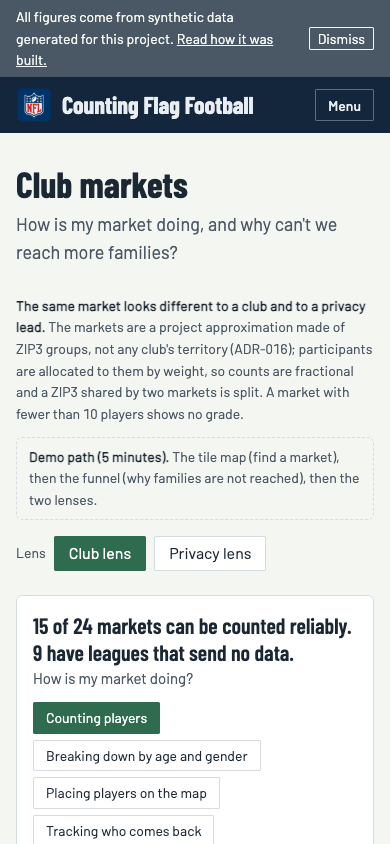
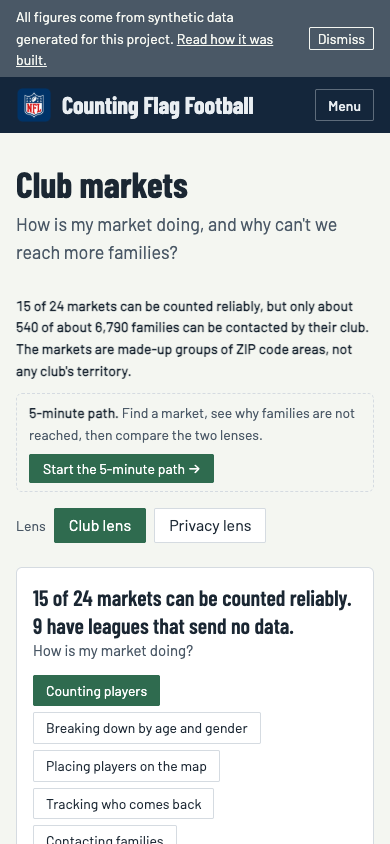
Phase 5.1 step 11: after-screenshots, before/after report, ADR-020 finalized, README line

Changed region(s): [[0.0308, 0.3389, 0.9538, 1.0], [0.0308, 0.6777, 0.0615, 0.7085]]

diff --git a/docs/decisions/ADR-020-site-viewer-and-copy.md b/docs/decisions/ADR-020-site-viewer-and-copy.md
@@ -1,6 +1,6 @@
 # ADR-020: Site viewer, plain-language copy and chart fixes (Phase 5.1)
 
-- **Status:** in progress (written during the build; finalized at the last step).
+- **Status:** accepted for the build (2026-10-15). Two points are Anna's to decide and are marked OPEN: the control-limit method and the club market names. The copy in `site_src/copy/charts.yml` is a draft awaiting her review.
 - **Numbering (a deviation from the handover).** The handover calls this ADR-017; ADR-017 is "Retention versus deletion", so this is **ADR-020**.
 - **Synthetic data.** Every number on the site describes a generated population.
 
@@ -12,3 +12,36 @@ Anna reviewed the built Data quality and Club markets pages (printed to PDF, 202
 - **Baseline (before).** Measured with Playwright driving the installed Chrome (`scripts/site_shots.py`; screenshots and `pages.csv` in `docs/reports/site_baseline/`): the Data quality page is 271,211 px tall because the Pareto chart is 268,183 px tall, and prints to **161 A4 pages** (Anna's PDF counted 198 on her paper size). The Club markets page overflows horizontally by 2,363 px at 1440 px. Every other page prints in 1 to 4 pages.
 - **Playwright.** The handover assumes a pre-installed Chromium. This machine has none, so Playwright is added as a dev dependency and drives the installed Google Chrome (`channel="chrome"`); nothing is downloaded. GitHub's ubuntu runners ship Chrome, so the same call works in CI.
 - **Duplicated sources? No gap; labelling only.** The heatmap lists 11 sources: the five original (`US_LEAGUE`, `CA_CLUB`, `INTL_FED`, `SCHOOL_AGGREGATES`, `FAN_ENGAGEMENT`) and the six channel feeds. The feeds are separate source systems (own raw table, own contract), not sub-channels of the US league, and `school_program` (a roster export, one row per student) is not `SCHOOL_AGGREGATES` (program headcounts, no people). ADR-013 decided this on purpose: the feeds are scored but **not counted** because they describe the same children as `US_LEAGUE`. So there is no reconciliation gap and no model change; the site only needs to label and group them (original sources / new intake channels) so the relationship is visible. `FAN_ENGAGEMENT` is not a registration source and is grouped apart.
+
+## Decision
+
+### 1. Cards and a full-screen viewer
+- Each chart is a **card**: a plain-language headline with a real number, the question, a fixed-height thumbnail (250 px; a check fails above 320 px), *What this means*, *What to do* (both in a Club and a Privacy version), *Be careful*, and a collapsed *For analysts*.
+- A card's slides open in one **`<dialog>` viewer** that holds every slide on the page, in page order (`scroll-snap`, arrow keys, PageUp/PageDown, Home/End, a rail of slide titles, Esc, focus returned to the Expand button). `quality.html#view=Q3-2` opens a slide directly. Slides render lazily when within one slide of the viewport; the chart is re-rendered from its own full-size spec, never scaled up from the thumbnail. A chart always sits in a box of fixed size (`autosize: fit`, `width` and `height` `container`), so it can never grow the page (the root cause of the 268,183 px Pareto).
+- Slide kinds: a Vega-Lite spec, an HTML panel (tile map, fix letters, lens pairs), or a grid of small Vega charts (the grid wraps: 3 columns, 1 on a phone). The component (`site_src/assets/viewer.js`, `viewer.css`) contains no data logic.
+- Pages shrank: Data quality 271,211 px to 2,638 px and 161 print pages to 3; Club markets no longer overflows sideways (details in `docs/reports/site_before_after.md`).
+
+### 2. Copy rules
+- Copy lives in `site_src/copy/charts.yml` (not `site/copy/`: the build recreates `site/`), one entry per card with `status: draft` until Anna approves it; the build warns while any entry is draft. Placeholders (`{field}`, or `{Q1.field}` on a page intro) are filled **by string substitution only** from SQL insight exports (`share_club__chart_insights`, `share_privacy__chart_insights`, and `eval_chart_insights` for the cards graded against the answer key, which therefore lives in `evaluation`). A missing value fails the build unless the entry declares a fallback headline with no numbers. People and families are whole numbers; estimates are rounded in SQL to the nearest 10 and prefixed "about"; a count under the small-cell limit reads "fewer than 10".
+- Every card is checked for: a non-empty slot each, a headline of at most 15 words, sentences of at most 25 words, Flesch-Kincaid grade at most 9, none of the banned words or codes outside `<details>`, no long decimals, no unfilled placeholder, and every number in a headline present in an insight export (`scripts/site_check.py`).
+- Plain labels come from seeds (rule label and action, purposes, dimensions, grades, sources, channels, club markets, funnel steps) with tests that every code has one. A glossary page lists every term with the analysts' name.
+
+### 3. A league belongs to one market
+Participants are allocated to club markets by ZIP3 weight (ADR-016), but a league cannot be split: it now belongs to the one market with the highest weight for its ZIP3 (ties: the lowest market id). League counts per market are whole numbers (the old chart showed 4.5 leagues). Participant allocation and the coverage estimate are unchanged. Only `orgs_known`, `orgs_reporting` and `orgs_dark` in `mart_market_coverage` changed.
+
+### 4. Control-limit width (Q2): OPEN, Anna decides
+Investigation in `docs/reports/site_after/control_chart_note.md`: the binomial P-chart flags 20% of source points (30% for the largest sources) because limits a few points wide ignore real year-to-year movement. Recommended: an individuals (XmR) chart on the score for sources, labelled "early read", and no limits for organizations. **Nothing was changed**: the chart uses the current limits, draws a band only from the fourth season, and says so in its analyst notes. The choice changes `dq_trend` and the Q2 headline numbers.
+
+### 5. Other deviations from the handover
+- The tile map groups tiles by state (west to east) instead of drawing a map: 72 px tiles with four lines of text do not fit a geographic grid in the viewer.
+- The tile-map card defaults to Counting players, as specified; the Pareto card (Q3) defaults to Contacting families because the top Counting-players problem affects fewer than 10 players, so every bar would be hidden.
+- Q4 cannot say "N times as likely": no league on the recommended software is graded C or D. The headline gives the shares.
+- The "records deleted at age-out" line is not on the privacy panel: the count lives in a restricted store with no approved share. A `share_privacy` model for it would be the follow-up.
+- `growth_from_new_reporting_share` (a growth headline) was not built; the growth card uses a neutral headline.
+- The tour page (`tour.html`) was cut, as the handover allows: deep links and each page's "5-minute path" button cover it.
+- Footer: "Scorecard methodology 2.0 · methodology memo 1.2". They are two different versions (the memo is 1.2, scorecard KPIs 2.0, per the CHANGELOG), now each read from its own source.
+
+## Consequences
+- The site-check suite (`make site-check`, `site-check-ci` in `all-phases`) runs in about 80 seconds for four pages and 50 seconds for two.
+- The copy file is the one place Anna edits; everything numeric stays in SQL.
+- Club market names remain "{State} market {n}". OPEN: approximate metro names if Anna prefers; never team names, logos or colours.

diff --git a/README.md b/README.md
@@ -75,18 +75,19 @@ Governance sets the size of the marketable audience: nothing linked reaches mark
 | [017 Retention versus deletion](docs/decisions/ADR-017-retention-vs-deletion.md) | Age-out deletion in the identity and linkage zones; what analytics survive |
 | [018 Minimization and the data standard](docs/decisions/ADR-018-minimization-and-data-standard.md) | The measured frontier of five variants; the data standard cites V2 (birth year, ZIP3), chosen by Anna |
 | [019 Consent provenance and the activation funnel](docs/decisions/ADR-019-consent-provenance-and-activation-funnel.md) | Household-keyed consent events, provenance grades, losses split into data quality and privacy |
+| [020 Site viewer and plain-language copy](docs/decisions/ADR-020-site-viewer-and-copy.md) | Cards and a full-screen viewer, copy rules and checks, a league belongs to one market, the open control-limit and market-name choices |
 
 ## Phase 5: data quality under privacy constraints
 
 **How do you fix thin, messy youth participation data when privacy rules block the obvious fixes (collect more, buy enrichment, share more)?** The real pain point is that participation data is sparse and poor quality; consent is
-not the bottleneck. Phase 5 tells one story through two lenses, built around **one club market end to end** (`make p5-demo`; the 15-minute two-audience path is in [`docs/demo_script.md`](docs/demo_script.md); the site has four new pages, each with a Club lens / Privacy lens toggle):
+not the bottleneck. Phase 5 tells one story through two lenses, built around **one club market end to end** (`make p5-demo`; the 15-minute two-audience path is in [`docs/demo_script.md`](docs/demo_script.md); the site has four new pages, each with a Club lens / Privacy lens toggle; every chart is a small card that opens in a full-screen viewer you can scroll or arrow through, and `page.html#view=Q3-2` links to a slide. Terms are explained in the [glossary](site/glossary.html); `make site-check` runs the layout and plain-language checks, [ADR-020](docs/decisions/ADR-020-site-viewer-and-copy.md)):
 
 | Lens | Question | Where the answer is |
 |---|---|---|
 | **Privacy / compliance lead** | What do we collect and why; what is a consent worth; what never leaves the league; when is it deleted? | [data standard](docs/data-standard.md), [consent provenance and the activation funnel](docs/decisions/ADR-019-consent-provenance-and-activation-funnel.md), [minimization frontier](docs/decisions/ADR-018-minimization-and-data-standard.md), [retention versus deletion](docs/decisions/ADR-017-retention-vs-deletion.md) |
 | **Clubs / analytics lead** | What can I see and act on in my market, and how far can I trust it? | [data quality explained](docs/data-quality.md), the purpose scorecards and fix lists (`make dq`), the club-market view ([ADR-016](docs/decisions/ADR-016-club-market-mapping.md)), `share_club` |
 
-All data is **synthetic**, and every claim about NFL, RCX, vendor or club systems is an **assumption**, labelled where it is made ([real-world context](docs/context/real-world-context.md)); legal points are open questions ([`docs/questions-for-stakeholders.md`](docs/questions-for-stakeholders.md)), never findings. The decisions are ADR-013 to ADR-019; ADR-013 records how the first build (v1, from the handover) was reconciled with the larger spec.
+All data is **synthetic**, and every claim about NFL, RCX, vendor or club systems is an **assumption**, labelled where it is made ([real-world context](docs/context/real-world-context.md)); legal points are open questions ([`docs/questions-for-stakeholders.md`](docs/questions-for-stakeholders.md)), never findings. The decisions are ADR-013 to ADR-020; ADR-013 records how the first build (v1, from the handover) was reconciled with the larger spec.
 
 ### What was built
 - **Structured defects.** Organizations get latent quality profiles (35% disciplined, 45% typical, 15% struggling, 5% manual), fields go missing for reasons that depend on who registers (not at random), 15 to 25% of known organizations send no file in a season, and consent wording comes in four versions. Counting rules and KPI definitions are unchanged.

diff --git a/docs/reports/site_before_after.md b/docs/reports/site_before_after.md
@@ -1,0 +1,22 @@
+# Site before and after (Phase 5.1)
+
+Measured with `scripts/site_shots.py` (Playwright driving the installed Chrome) at 1440 x 900 and 390 x 844. Before: `docs/reports/site_baseline/` (2026-10-14). After: `docs/reports/site_after/` (2026-10-15). All data is synthetic.
+
+| Page | Height before (px) | Height after (px) | Print pages before | Print pages after | Sideways overflow before, 1440 px | after | before, 390 px | after |
+|---|---|---|---|---|---|---|---|---|
+| quality | 271,211 | 2,607 | 161 | 4 | 625 | 0 | 1555 | 0 |
+| sure | 2,695 | 1,958 | 2 | 3 | 0 | 0 | 793 | 0 |
+| markets | 3,342 | 2,741 | 3 | 4 | 2363 | 0 | 3293 | 0 |
+| privacy | 4,126 | 3,237 | 3 | 4 | 0 | 0 | 0 | 0 |
+
+The limit set by the handover is 12 print pages per page; every page is at 4 or fewer. The Pareto chart on the Data quality page, which was 268,183 px tall, is now a 250 px card thumbnail.
+
+## What changed
+- **Data quality (D1 to D8).** Q1 to Q5 are cards with a plain headline and a full-screen viewer (22 slides on the page). The dual-axis Pareto is horizontal bars per use; the heatmap is a grid with plain names and wrapped headers; the scatter is a stacked bar by league size and by how a league sends data (the scatter is kept for analysts); the fix list is a letter per league.
+- **Club markets (M1 to M6).** The intro no longer ends mid-sentence (the literal `<k` was read as a tag). The tile map shows one use at a time with larger tiles; the growth charts wrap in a grid and use an index; the funnel shows what remains and splits each loss by cause; leagues are whole numbers; the privacy lens panel is back, beside the club panel, and a test fails if either goes missing.
+- **How sure and Privacy by design** use the same cards. **Navigation** is four groups. **A glossary** and a **5-minute path button** on each page were added.
+
+## Checks
+`make site-check` (about 80 s, four pages) and `make site-check-ci` (about 50 s, two pages; part of `make all-phases`) cover layout, content and viewer. The full `make all-phases` after this work: dbt 450 passed (2 expected warnings), pytest 205 passed, site check OK.
+
+Screenshots in `docs/reports/site_after/`: one per page and viewport, every card, and a selection of viewer slides.
